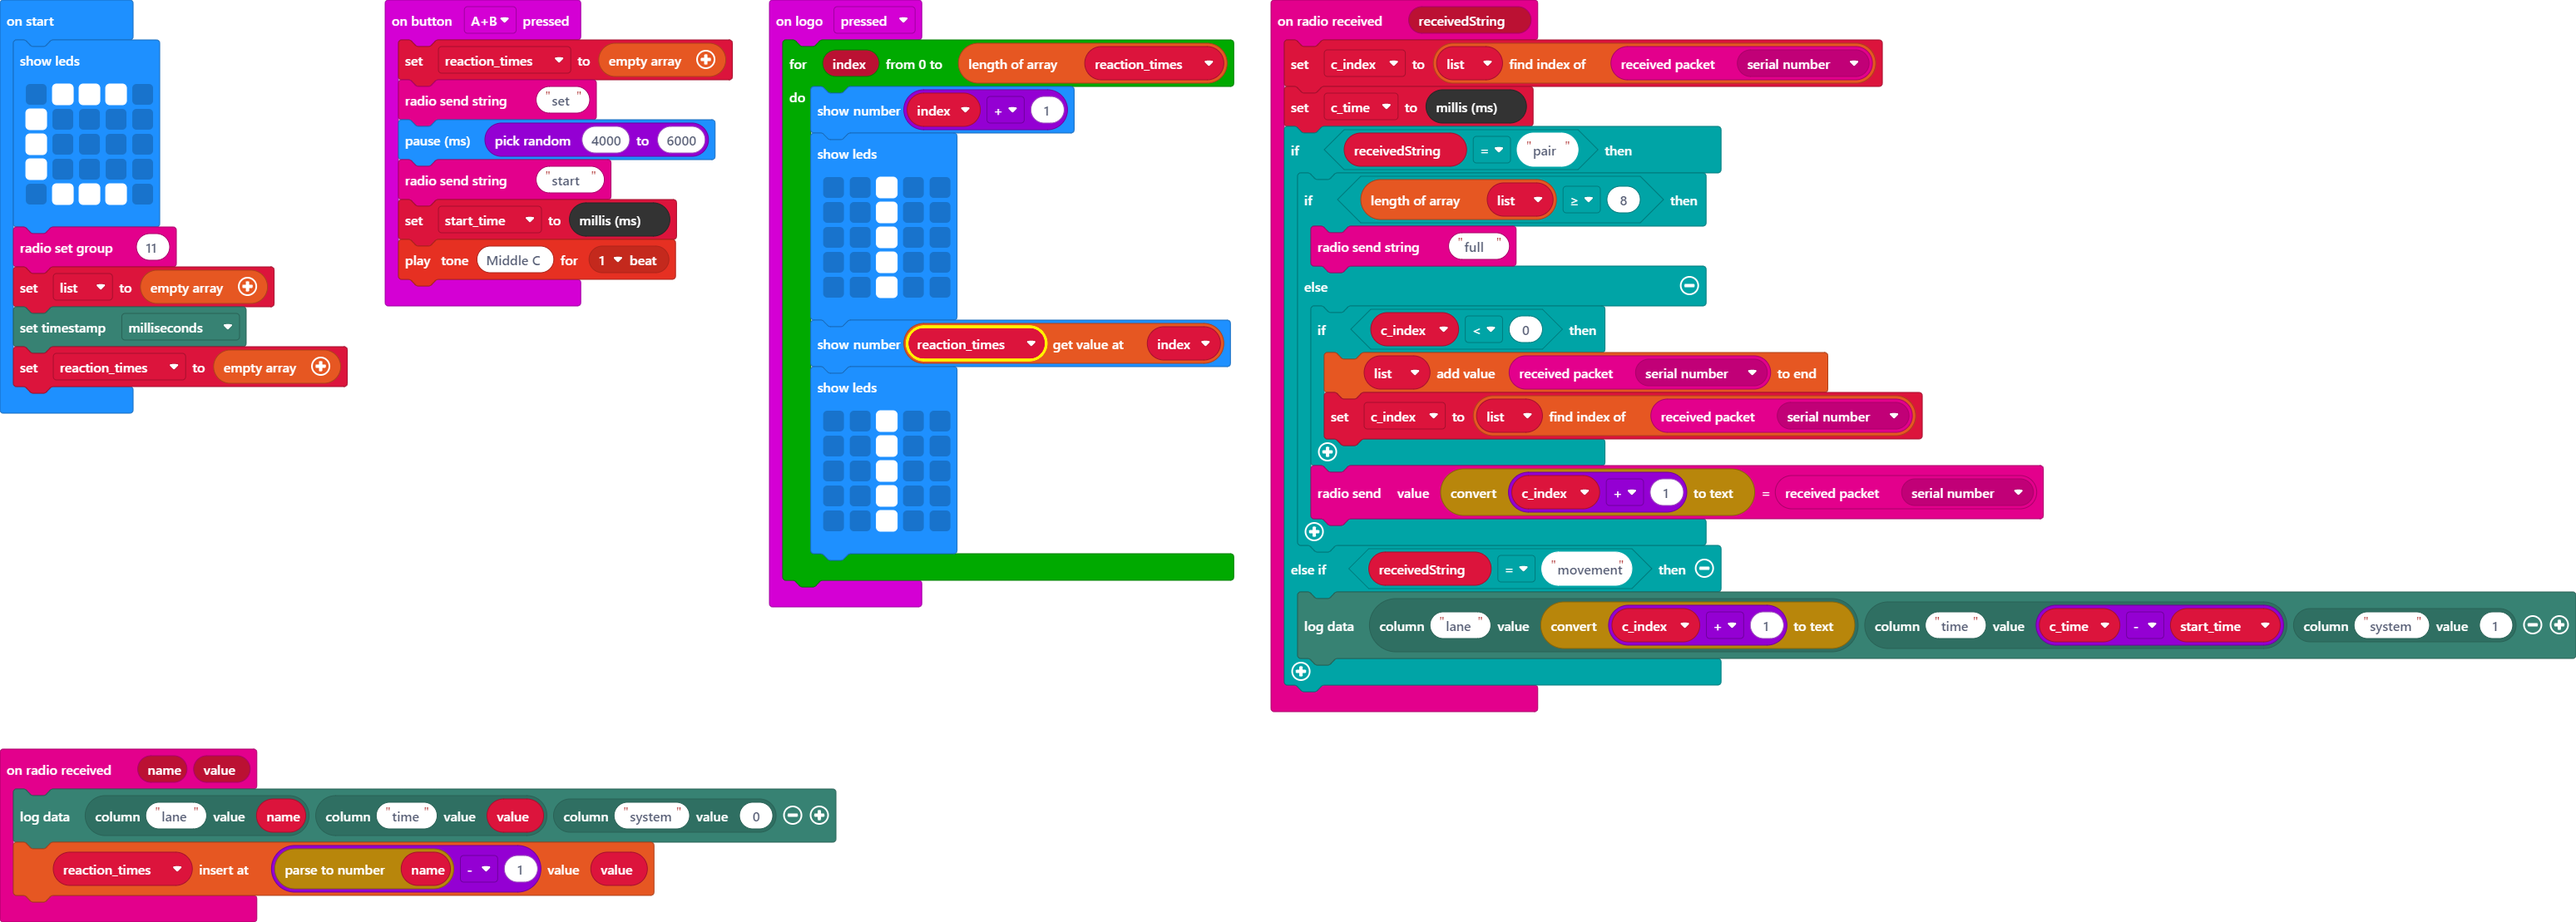
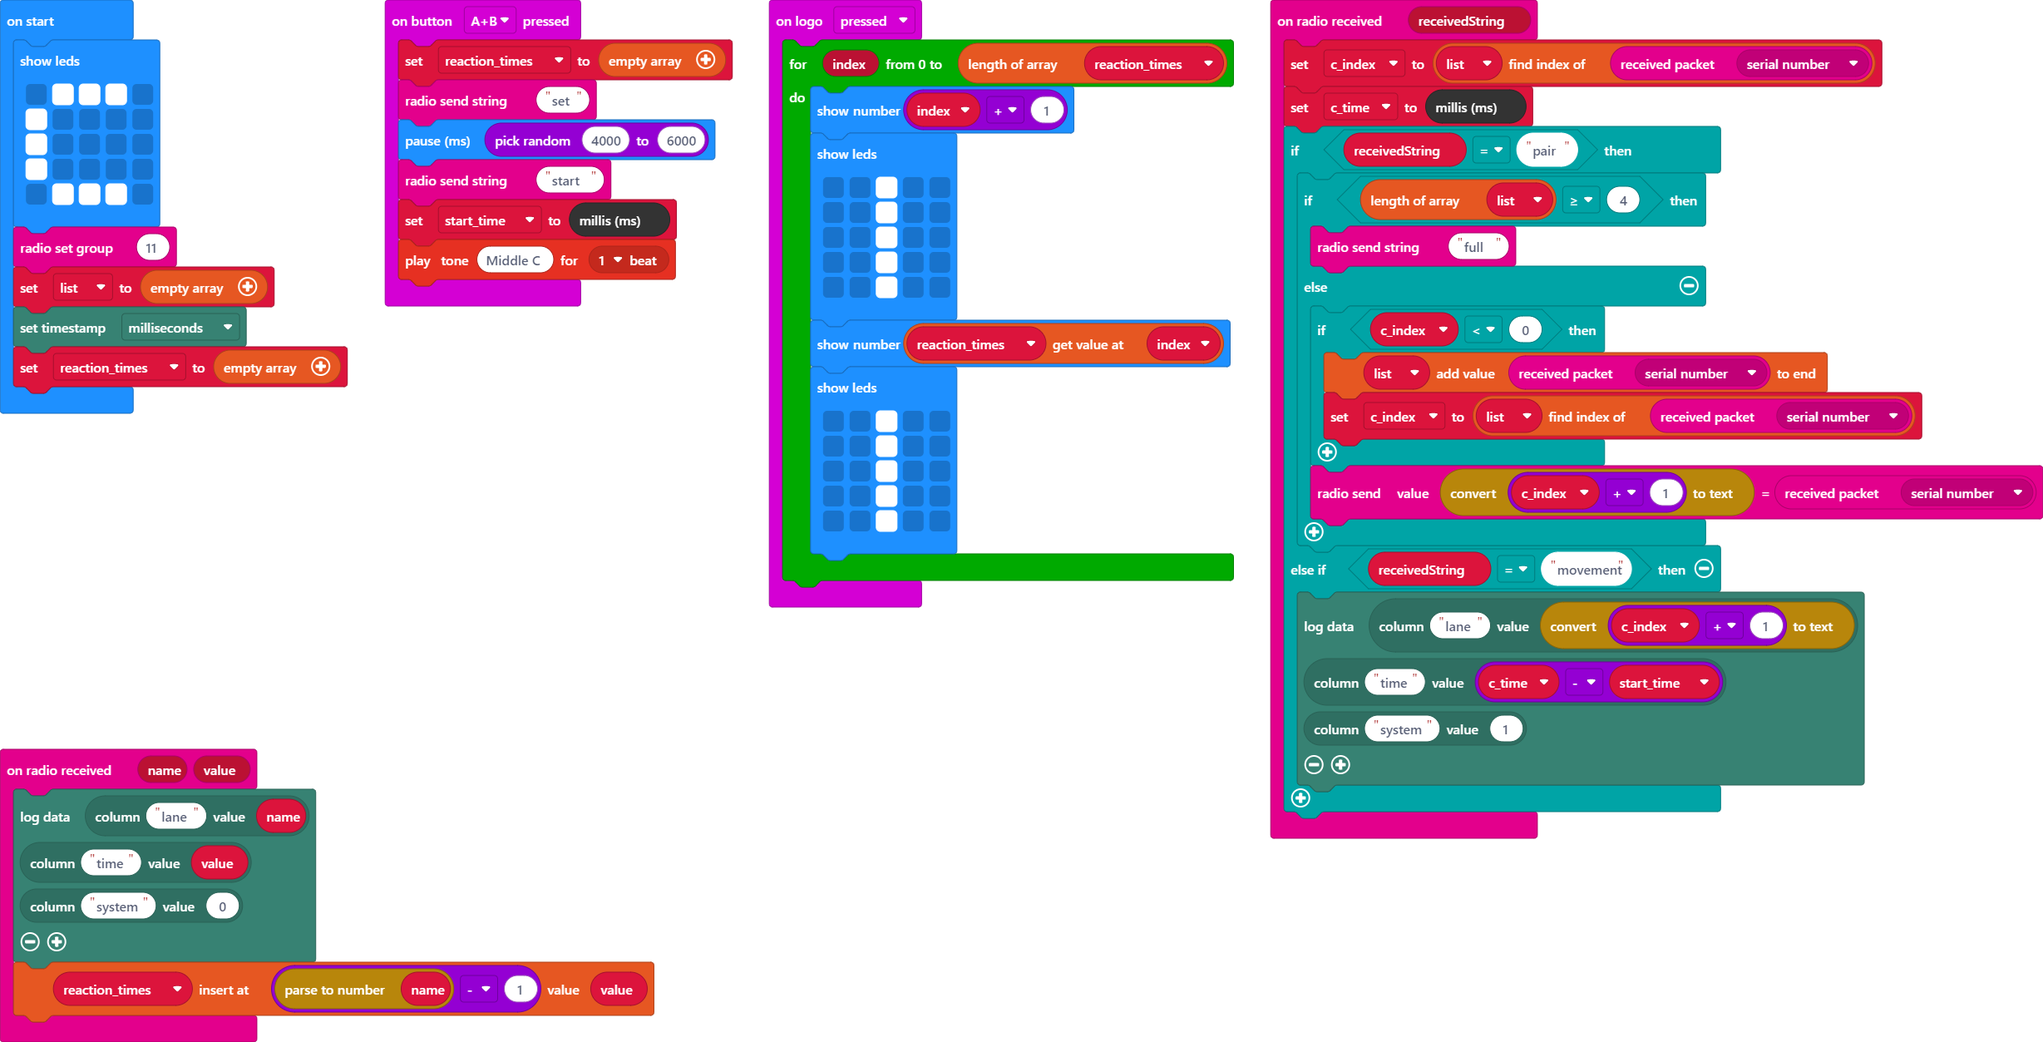
Update pxt.json, main.blocks, main.ts

diff --git a/main.ts b/main.ts
@@ -10,7 +10,7 @@ radio.onReceivedString(function (receivedString) {
     c_index = list.indexOf(radio.receivedPacket(RadioPacketProperty.SerialNumber))
     c_time = control.millis()
     if (receivedString == "pair") {
-        if (list.length >= 8) {
+        if (list.length >= 4) {
             radio.sendString("full")
         } else {
             if (c_index < 0) {
@@ -20,11 +20,19 @@ radio.onReceivedString(function (receivedString) {
             radio.sendValue(convertToText(c_index + 1), radio.receivedPacket(RadioPacketProperty.SerialNumber))
         }
     } else if (receivedString == "movement") {
-        datalogger.log(datalogger.createCV("lane", convertToText(c_index + 1)), datalogger.createCV("time", c_time - start_time), datalogger.createCV("system", 1))
+        datalogger.log(
+        datalogger.createCV("lane", convertToText(c_index + 1)),
+        datalogger.createCV("time", c_time - start_time),
+        datalogger.createCV("system", 1)
+        )
     }
 })
 radio.onReceivedValue(function (name, value) {
-    datalogger.log(datalogger.createCV("lane", name), datalogger.createCV("time", value), datalogger.createCV("system", 0))
+    datalogger.log(
+    datalogger.createCV("lane", name),
+    datalogger.createCV("time", value),
+    datalogger.createCV("system", 0)
+    )
     reaction_times.insertAt(parseFloat(name) - 1, value)
 })
 input.onLogoEvent(TouchButtonEvent.Pressed, function () {
